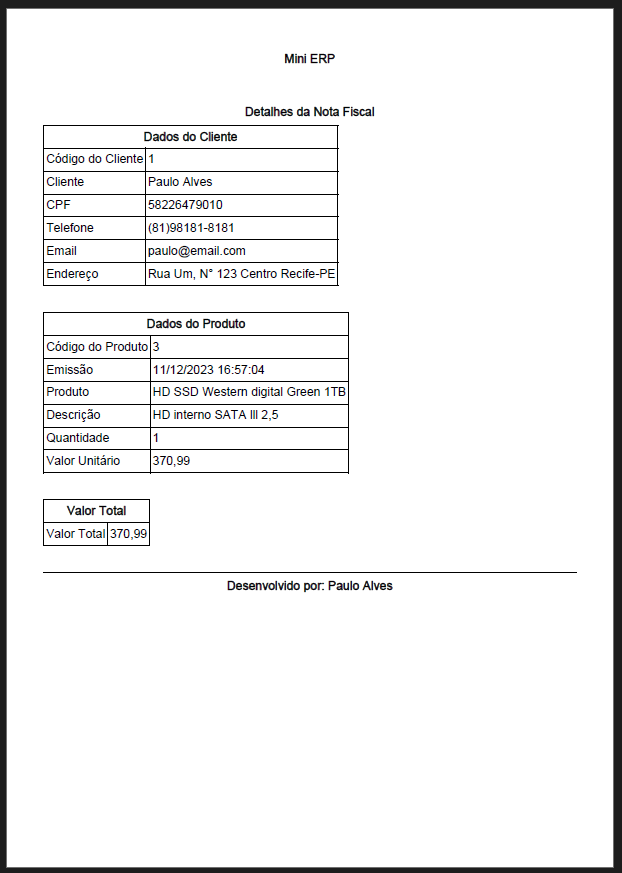
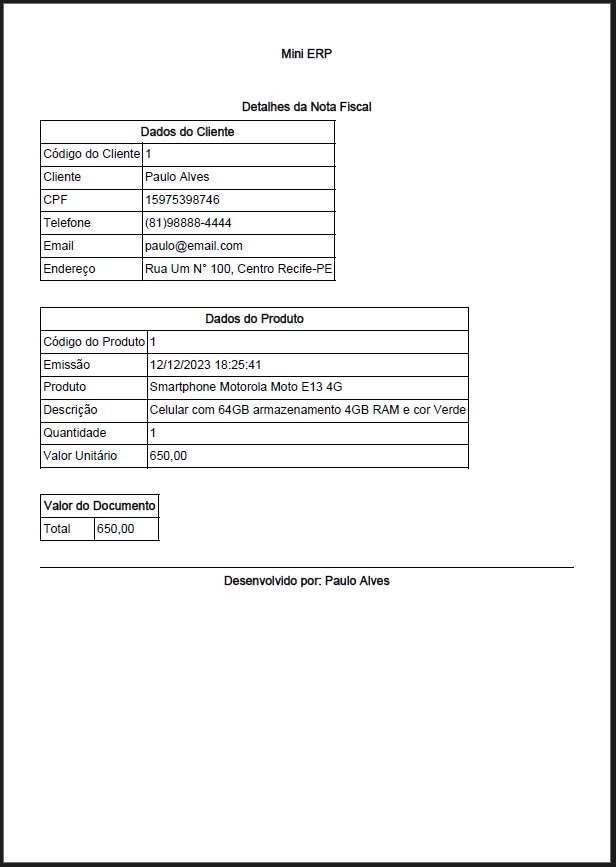
Aplicando pequenos ajustes

Changed region(s): [[0.0, 0.0, 1.0, 0.9965], [0.3393, 0.654, 0.6477, 0.6851]]

diff --git a/src/MiniERP.EF.App/Views/Form_DetalhesNotaFiscal.cs b/src/MiniERP.EF.App/Views/Form_DetalhesNotaFiscal.cs
@@ -101,7 +101,7 @@ namespace MiniERP.EF.App.Views
         {
             try
             {
-                string caminhoDoPDF = @"C:\DetalhesNotaFiscal.pdf";
+                string caminhoDoPDF = Path.Combine(Environment.GetFolderPath(Environment.SpecialFolder.UserProfile), "Downloads", "DetalhesNotaFiscal.pdf");
 
                 SaveFileDialog saveFileDialog = new SaveFileDialog();
                 saveFileDialog.Filter = "Arquivos PDF (*.pdf)|*.pdf";
@@ -185,9 +185,9 @@ namespace MiniERP.EF.App.Views
         {
             Table tabela = new Table(2);
 
-            tabela.AddCell(new Cell(1, 2).Add(new Paragraph("Valor Total")).SetBold().SetTextAlignment(TextAlignment.CENTER));
+            tabela.AddCell(new Cell(1, 2).Add(new Paragraph("Valor do Documento")).SetBold().SetTextAlignment(TextAlignment.CENTER));
 
-            AdicionarLinhaNaTabela(tabela, "Valor Total", lbl_ValorTotal_NotaFiscal.Text);
+            AdicionarLinhaNaTabela(tabela, "Total", lbl_ValorTotal_NotaFiscal.Text);
 
             return tabela;
         }

diff --git a/src/MiniERP.EF.App/Views/Form_Info.Designer.cs b/src/MiniERP.EF.App/Views/Form_Info.Designer.cs
@@ -445,9 +445,9 @@
             label13.ForeColor = Color.DodgerBlue;
             label13.Location = new Point(17, 354);
             label13.Name = "label13";
-            label13.Size = new Size(687, 15);
+            label13.Size = new Size(716, 15);
             label13.TabIndex = 19;
-            label13.Text = "Um botão com o símbolo do PDF que ao ser pressionado salva os dados da nota e faz o download automático na unidade C:\\ ";
+            label13.Text = "Um botão com o símbolo do PDF que ao ser pressionado salva os dados da nota e baixa na pasta Downloads de forma automática.";
             // 
             // label12
             // 

diff --git a/src/MiniERP.EF.App/Views/Form_DetalhesNotaFiscal.Designer.cs b/src/MiniERP.EF.App/Views/Form_DetalhesNotaFiscal.Designer.cs
@@ -138,7 +138,7 @@
             groupBox_ExibirDetalhes_Total.Size = new Size(300, 69);
             groupBox_ExibirDetalhes_Total.TabIndex = 19;
             groupBox_ExibirDetalhes_Total.TabStop = false;
-            groupBox_ExibirDetalhes_Total.Text = "Valor da Nota";
+            groupBox_ExibirDetalhes_Total.Text = "Valor do Documento";
             // 
             // lbl_ValorTotal_NotaFiscal
             // 

diff --git a/src/MiniERP.EF.App/Data/MiniERP_EFContext.cs b/src/MiniERP.EF.App/Data/MiniERP_EFContext.cs
@@ -23,7 +23,6 @@ namespace MiniERP.EF.App.Data
             if (!optionsBuilder.IsConfigured)
             {
                 optionsBuilder.UseSqlServer("Data Source=.\\SQLEXPRESS;Initial Catalog=MiniERP_EF_WF;Persist Security Info=True;User ID=sa;Password=*********");
-                optionsBuilder.UseLazyLoadingProxies();
             }
         }
 
